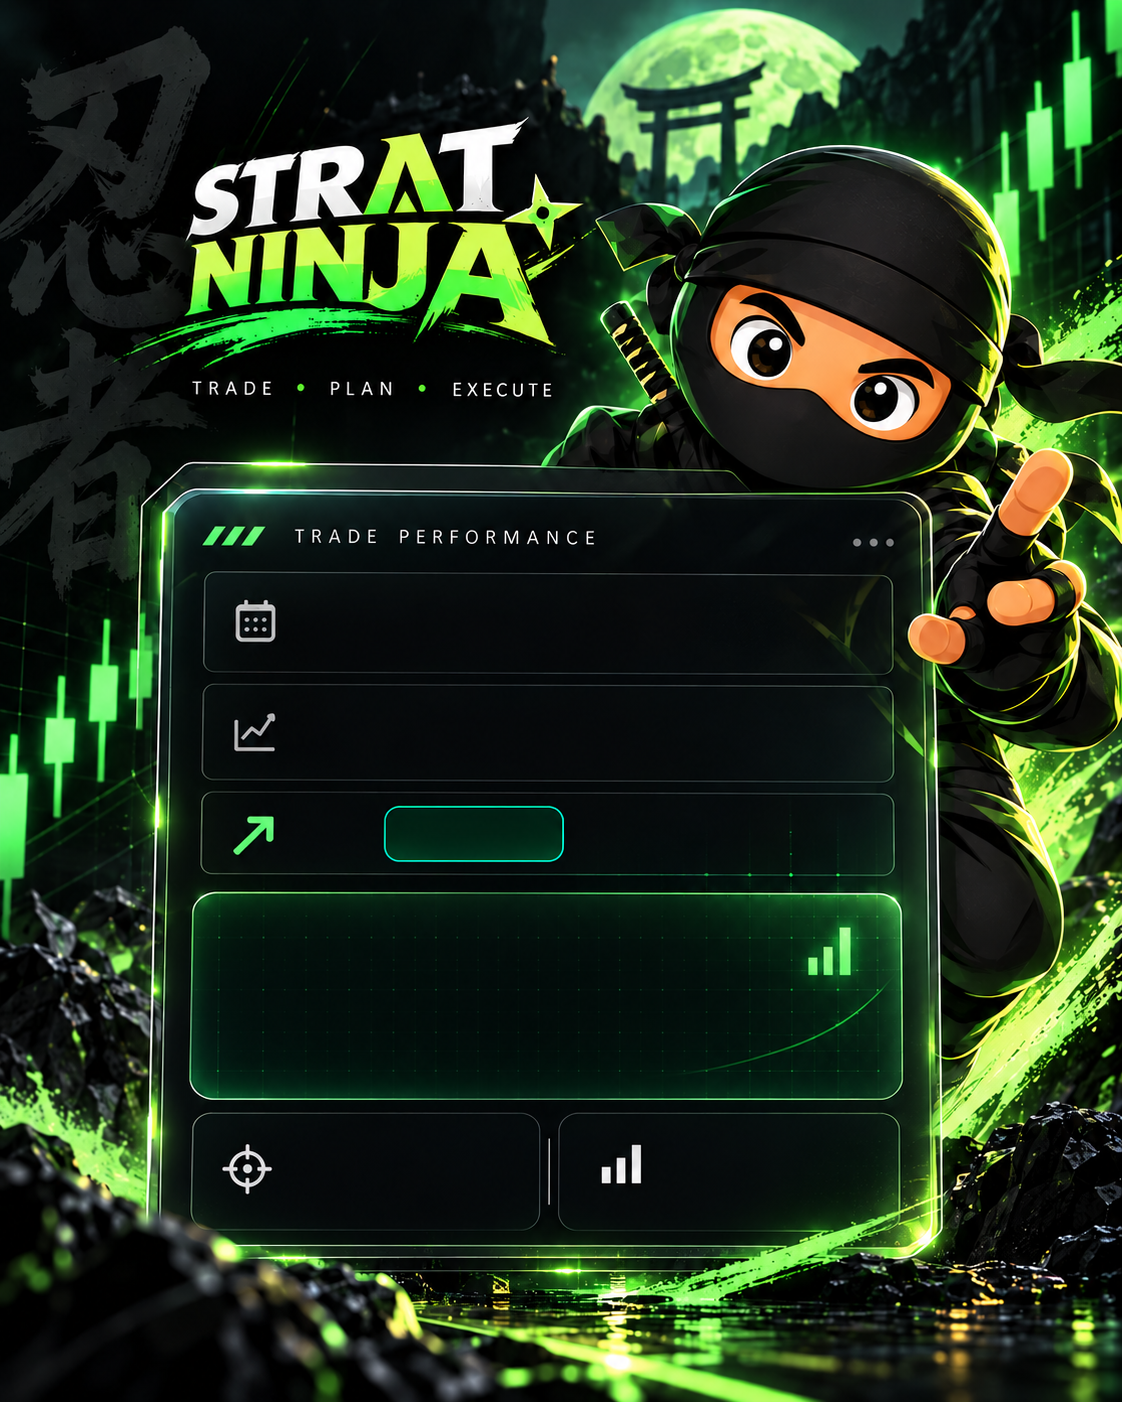
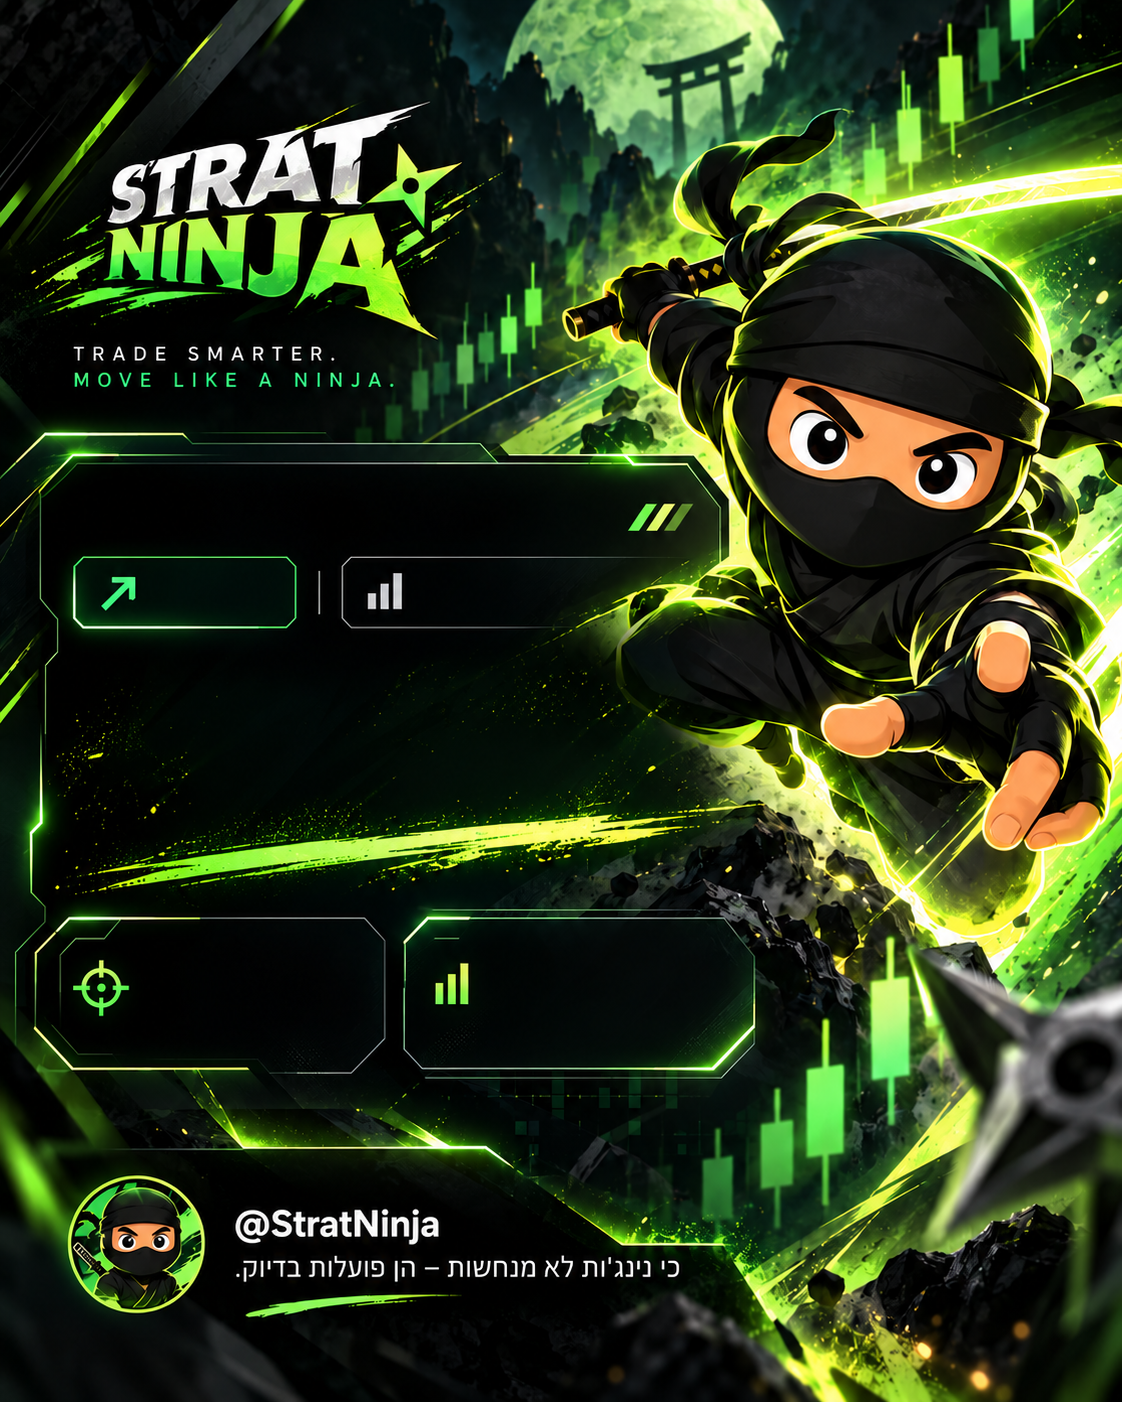
Ninja card: new template layout — recalibrate overlays (ticker/side/qty/ROI/entry/exit + date)
- New ninja-card.png (left-panel design); .njt-* positions recalibrated to its slots
- Ticker shows sym + asset type; leverage slot → trade qty; date small at top-right of panel
- Entry/exit English labels (ENTRY PRICE / EXIT PRICE / CURRENT PRICE for live)
- Cache-bust the template url (?v=2)

diff --git a/redesign.css b/redesign.css
@@ -406,20 +406,23 @@ body.dock-collapsed #athCeleb { display: none !important; }
 /* ================= NINJA TRADE SHARE CARD (1080×1350) ================= */
 .ninja-card { position: fixed; left: -9999px; top: 0; width: 1122px; height: 1402px; z-index: -1;
   box-sizing: border-box; overflow: hidden; font-family: 'Heebo','Rubik',Arial,sans-serif; color: #eafff3;
-  background: #05100b url("ninja-card.png") center center / 1122px 1402px no-repeat; }
+  background: #05100b url("ninja-card.png?v=2") center center / 1122px 1402px no-repeat; }
 .ninja-card * { box-sizing: border-box; }
 /* data overlays positioned into the template's empty slots (calibrated to the 1122×1402 art) */
 .njt { position: absolute; direction: ltr; font-family: 'Rubik','Heebo',Arial,sans-serif; }
-.njt-date { top: 44.7%; left: 30%;   transform: translate(0,-50%);   font-size: 34px; font-weight: 800; color: #eafff3; white-space: nowrap; }
-.njt-sym  { top: 52.2%; left: 30%;   transform: translate(0,-50%);   font-size: 60px; font-weight: 900; color: #ffffff; letter-spacing: 1px; white-space: nowrap; }
-.njt-side { top: 59.3%; left: 41.9%; transform: translate(-50%,-50%); font-size: 38px; font-weight: 900; white-space: nowrap; }
+/* --- positions calibrated to the NEW template (left panel: ticker / side · qty / ROI / entry · exit) --- */
+.njt-date { top: 37%;   left: 52%;   transform: translate(0,-50%);   font-size: 26px; font-weight: 700; color: #8fe8b0; white-space: nowrap; }
+.njt-sym  { top: 37%;   left: 8.5%;  transform: translate(0,-50%);   font-size: 52px; font-weight: 900; color: #ffffff; letter-spacing: .5px; white-space: nowrap; }
+.njt-sym .njt-atype { font-size: 30px; font-weight: 600; color: #9fc9b2; margin-inline-start: 8px; }
+.njt-side { top: 43.4%; left: 18.5%; transform: translate(-50%,-50%); font-size: 34px; font-weight: 900; white-space: nowrap; }
 .njt-side.long { color: #22e39b; } .njt-side.short { color: #ff5a6a; }
-.njt-roi  { top: 72%;   left: 47.5%; transform: translate(-50%,-50%); font-size: 122px; font-weight: 900; letter-spacing: -3px; white-space: nowrap; }
+.njt-lev  { top: 43.4%; left: 47%;   transform: translate(-50%,-50%); font-size: 32px; font-weight: 800; color: #eafff3; white-space: nowrap; }
+.njt-roi  { top: 56%;   left: 35%;   transform: translate(-50%,-50%); font-size: 118px; font-weight: 900; letter-spacing: -3px; white-space: nowrap; }
 .njt-roi.pos { color: #2bf29f; text-shadow: 0 0 55px rgba(43,242,159,.6); } .njt-roi.neg { color: #ff5a6a; text-shadow: 0 0 55px rgba(255,90,106,.55); }
-.njt-elbl, .njt-xlbl { top: 80.7%; transform: translate(-50%,-50%); font-size: 26px; font-weight: 600; color: #8fb9a6; white-space: nowrap; }
-.njt-elbl { left: 36%; } .njt-xlbl { left: 69%; }
-.njt-entry { top: 84.6%; left: 32.7%; transform: translate(-50%,-50%); font-size: 52px; font-weight: 900; color: #ffffff; }
-.njt-exit  { top: 84.6%; left: 66%;   transform: translate(-50%,-50%); font-size: 52px; font-weight: 900; color: #ffffff; }
+.njt-elbl, .njt-xlbl { top: 70%;   transform: translate(-50%,-50%); font-size: 22px; font-weight: 600; color: #9fc9b2; letter-spacing: 1px; white-space: nowrap; }
+.njt-elbl { left: 26%; } .njt-xlbl { left: 53%; }
+.njt-entry { top: 74.5%; left: 26%; transform: translate(-50%,-50%); font-size: 46px; font-weight: 900; color: #ffffff; }
+.njt-exit  { top: 74.5%; left: 53%; transform: translate(-50%,-50%); font-size: 46px; font-weight: 900; color: #ffffff; }
 .nj-kanji { position: absolute; top: 40px; left: 44px; font-size: 300px; font-weight: 900; line-height: .8;
   color: rgba(34,227,155,.10); font-family: 'Noto Sans Hebrew',serif; pointer-events: none; user-select: none; }
 .nj-glowbar { position: absolute; right: -120px; top: -80px; width: 520px; height: 1500px; transform: rotate(18deg);

diff --git a/pages.js b/pages.js
@@ -3342,13 +3342,15 @@
     const roi = t.roi == null ? 0 : t.roi;
     const roiStr = (roi >= 0 ? "+" : "−") + Math.abs(roi).toFixed(2) + "%";
     const money2 = v => (v == null ? "—" : Number(v).toLocaleString("en-US", { minimumFractionDigits: 2, maximumFractionDigits: 2 }));
+    const rightMetric = (t.qty != null && t.qty !== "") ? String(t.qty) : "";   // template's leverage slot → trade size (qty)
     el.innerHTML =
-      '<div class="njt njt-date">' + escHtml(t.dateStr || "") + "</div>" +
-      '<div class="njt njt-sym">' + escHtml(t.sym || "") + "</div>" +
-      '<div class="njt njt-side ' + dir + '">' + (isLong ? "▲ Long" : "▼ Short") + "</div>" +
+      (t.dateStr ? '<div class="njt njt-date">' + escHtml(t.dateStr) + "</div>" : "") +
+      '<div class="njt njt-sym">' + escHtml(t.sym || "") + (t.atype ? ' <span class="njt-atype">' + escHtml(t.atype) + "</span>" : "") + "</div>" +
+      '<div class="njt njt-side ' + dir + '">' + (isLong ? "↗ Long" : "↘ Short") + "</div>" +
+      (rightMetric ? '<div class="njt njt-lev">' + escHtml(rightMetric) + "</div>" : "") +
       '<div class="njt njt-roi ' + (roi >= 0 ? "pos" : "neg") + '">' + roiStr + "</div>" +
-      '<div class="njt njt-elbl">מחיר כניסה</div>' +
-      '<div class="njt njt-xlbl">' + (t.live ? "מחיר נוכחי" : "מחיר יציאה") + "</div>" +
+      '<div class="njt njt-elbl">ENTRY PRICE</div>' +
+      '<div class="njt njt-xlbl">' + (t.live ? "CURRENT PRICE" : "EXIT PRICE") + "</div>" +
       '<div class="njt njt-entry">' + money2(t.entry) + "</div>" +
       '<div class="njt njt-exit">' + money2(t.exit) + "</div>";
     document.body.appendChild(el);
@@ -3362,8 +3364,8 @@
       const pv = Math.abs((+t.entryPrice || 0) * (+t.qty || 0) * (+t.mult || 1));
       const roi = (pv && t.pnl != null) ? (t.pnl / pv * 100)
         : (dir === "short" ? (t.entryPrice - t.exitPrice) : (t.exitPrice - t.entryPrice)) / t.entryPrice * 100;
-      return { sym: String(t.symbol || "").split(" ")[0], atype: t.assetType === "option" ? "Options" : "", dir,
-        entry: t.entryPrice, exit: t.exitPrice, roi: roi, pnl: t.pnl, dateStr: t.exitDate || "", live: false, _ts: t.exitDate || "" };
+      return { sym: String(t.symbol || "").split(" ")[0], atype: t.assetType === "option" ? "Options" : "Stock", dir,
+        qty: t.qty, entry: t.entryPrice, exit: t.exitPrice, roi: roi, pnl: t.pnl, dateStr: t.exitDate || "", live: false, _ts: t.exitDate || "" };
     });
     norm.sort((a, b) => (b._ts < a._ts ? -1 : b._ts > a._ts ? 1 : 0));
     return norm;

diff --git a/journal.js b/journal.js
@@ -452,6 +452,7 @@
       const _sBase = String(t.symbol || "").split(" ")[0];
       const shareBtn = (!merged && cp != null && !isOpt)
         ? "<button class='btn ghost' data-sharepos='1' data-sp-sym='" + _sBase + "' data-sp-dir='" + (t.direction || "long") +
+          "' data-sp-qty='" + (t.qty || "") + "' data-sp-atype='" + (t.assetType === "option" ? "Options" : "Stock") +
           "' data-sp-entry='" + (t.entryPrice || 0) + "' data-sp-cp='" + cp + "' title='שתף פוזיציה ככרטיס נינג׳ה' style='padding:4px 8px'>📸</button> "
         : "";
       const actions = merged
@@ -558,7 +559,7 @@
       if (!entry || cp == null || isNaN(cp)) { toast("אין מחיר חי לפוזיציה זו"); return; }
       const roi = dir === "short" ? (entry - cp) / entry * 100 : (cp - entry) / entry * 100;
       const today = new Date().toISOString().slice(0, 10);
-      if (window.snShareTradeCard) window.snShareTradeCard({ sym: b.dataset.spSym, dir: dir, entry: entry, exit: cp, roi: roi, dateStr: today, live: true });
+      if (window.snShareTradeCard) window.snShareTradeCard({ sym: b.dataset.spSym, dir: dir, qty: b.dataset.spQty, atype: b.dataset.spAtype, entry: entry, exit: cp, roi: roi, dateStr: today, live: true });
       else toast("כלי השיתוף עדיין נטען");
     });
     return wrap;
@@ -1013,7 +1014,7 @@
         const pv = Math.abs((+t.entryPrice || 0) * (+t.qty || 0) * (+t.mult || 1));
         const roi = (pv && t.pnl != null) ? (t.pnl / pv * 100)
           : (dir === "short" ? (t.entryPrice - t.exitPrice) : (t.exitPrice - t.entryPrice)) / t.entryPrice * 100;
-        if (window.snShareTradeCard) window.snShareTradeCard({ sym: String(t.symbol || "").split(" ")[0], dir: dir, entry: t.entryPrice, exit: t.exitPrice, roi: roi, dateStr: t.exitDate || "", live: false });
+        if (window.snShareTradeCard) window.snShareTradeCard({ sym: String(t.symbol || "").split(" ")[0], dir: dir, qty: t.qty, atype: t.assetType === "option" ? "Options" : "Stock", entry: t.entryPrice, exit: t.exitPrice, roi: roi, dateStr: t.exitDate || "", live: false });
         else toast("כלי השיתוף עדיין נטען — נסה שוב");
       };
     });
